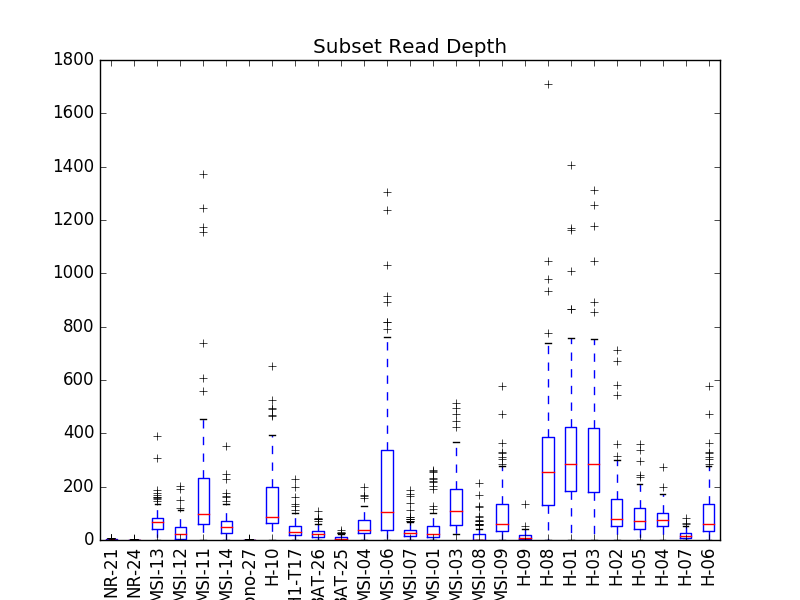
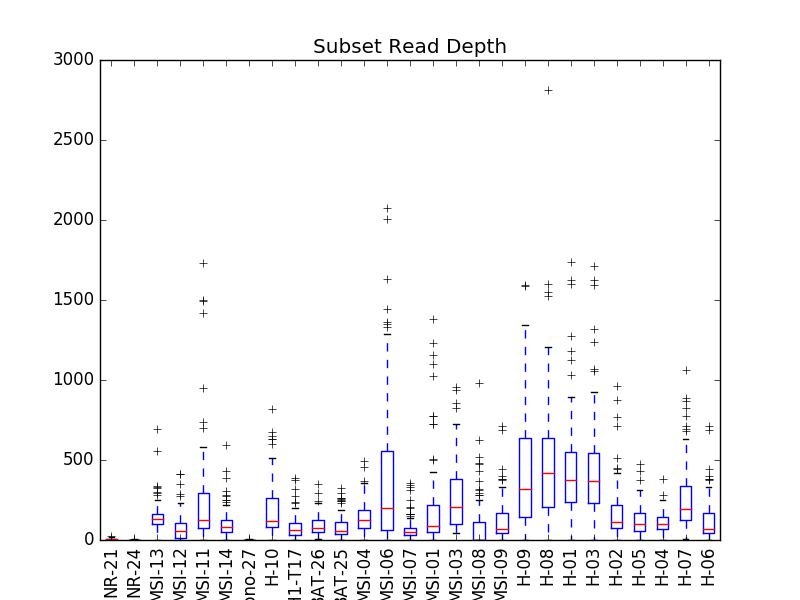
fixed read depth plot

diff --git a/msi_script.py b/msi_script.py
@@ -326,7 +326,7 @@ def bw_plot(bams, msi_loci):
 		temp = []
 		label.append(locus)
 		for bam in bams:
-			num_reads = len(count_reads(bam, locus))
+			runs, favg, bavg, num_reads = count_reads(bam, locus, return_mms = True)
 			temp.append(num_reads)
 		data.append(temp)
 	plt.boxplot(data, labels = label)
@@ -403,14 +403,12 @@ def status_plot(bams):
 msi_loci = get_msi_loci('/home/upload/msi_project/msi_loci_edited.txt')
 
 #store bamfiles in a list
-directory = '/home/upload/msi_project/tcga_bam/tumor_bams'
+directory = '/home/upload/msi_project/tcga_bam/tumor_bams/subset'
 bamfiles = scan_files(directory)
-bamfiles = bamfiles[:1000]
 
 annotations = get_msi_annotations()
 
-status_plot(bamfiles)
-
+bw_plot(bamfiles, msi_loci)
 '''
 
 for bam in bamfiles:
